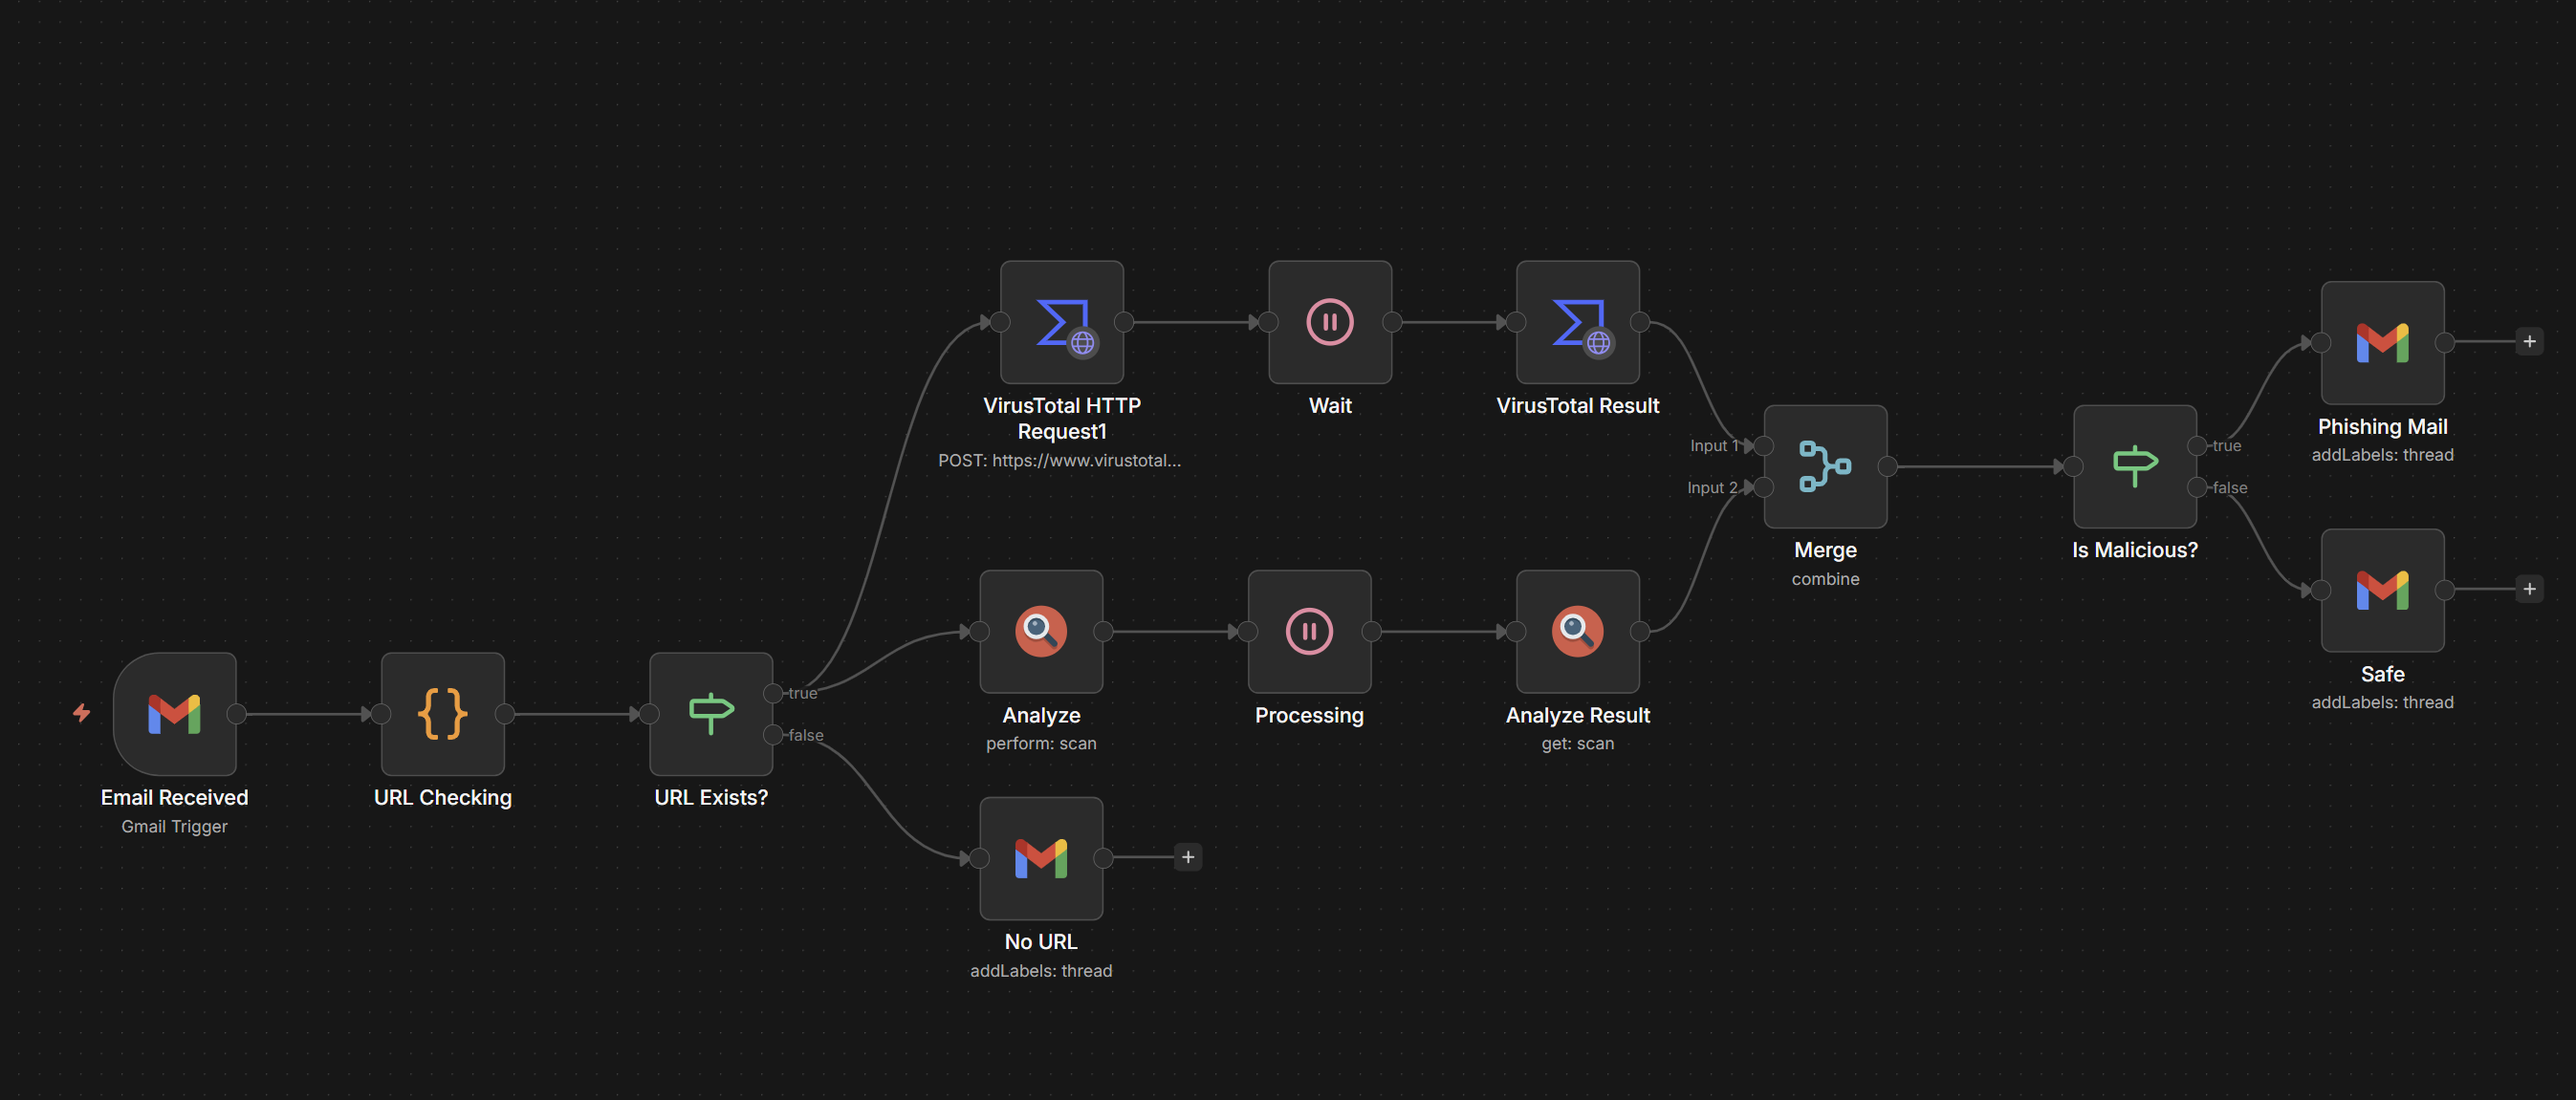
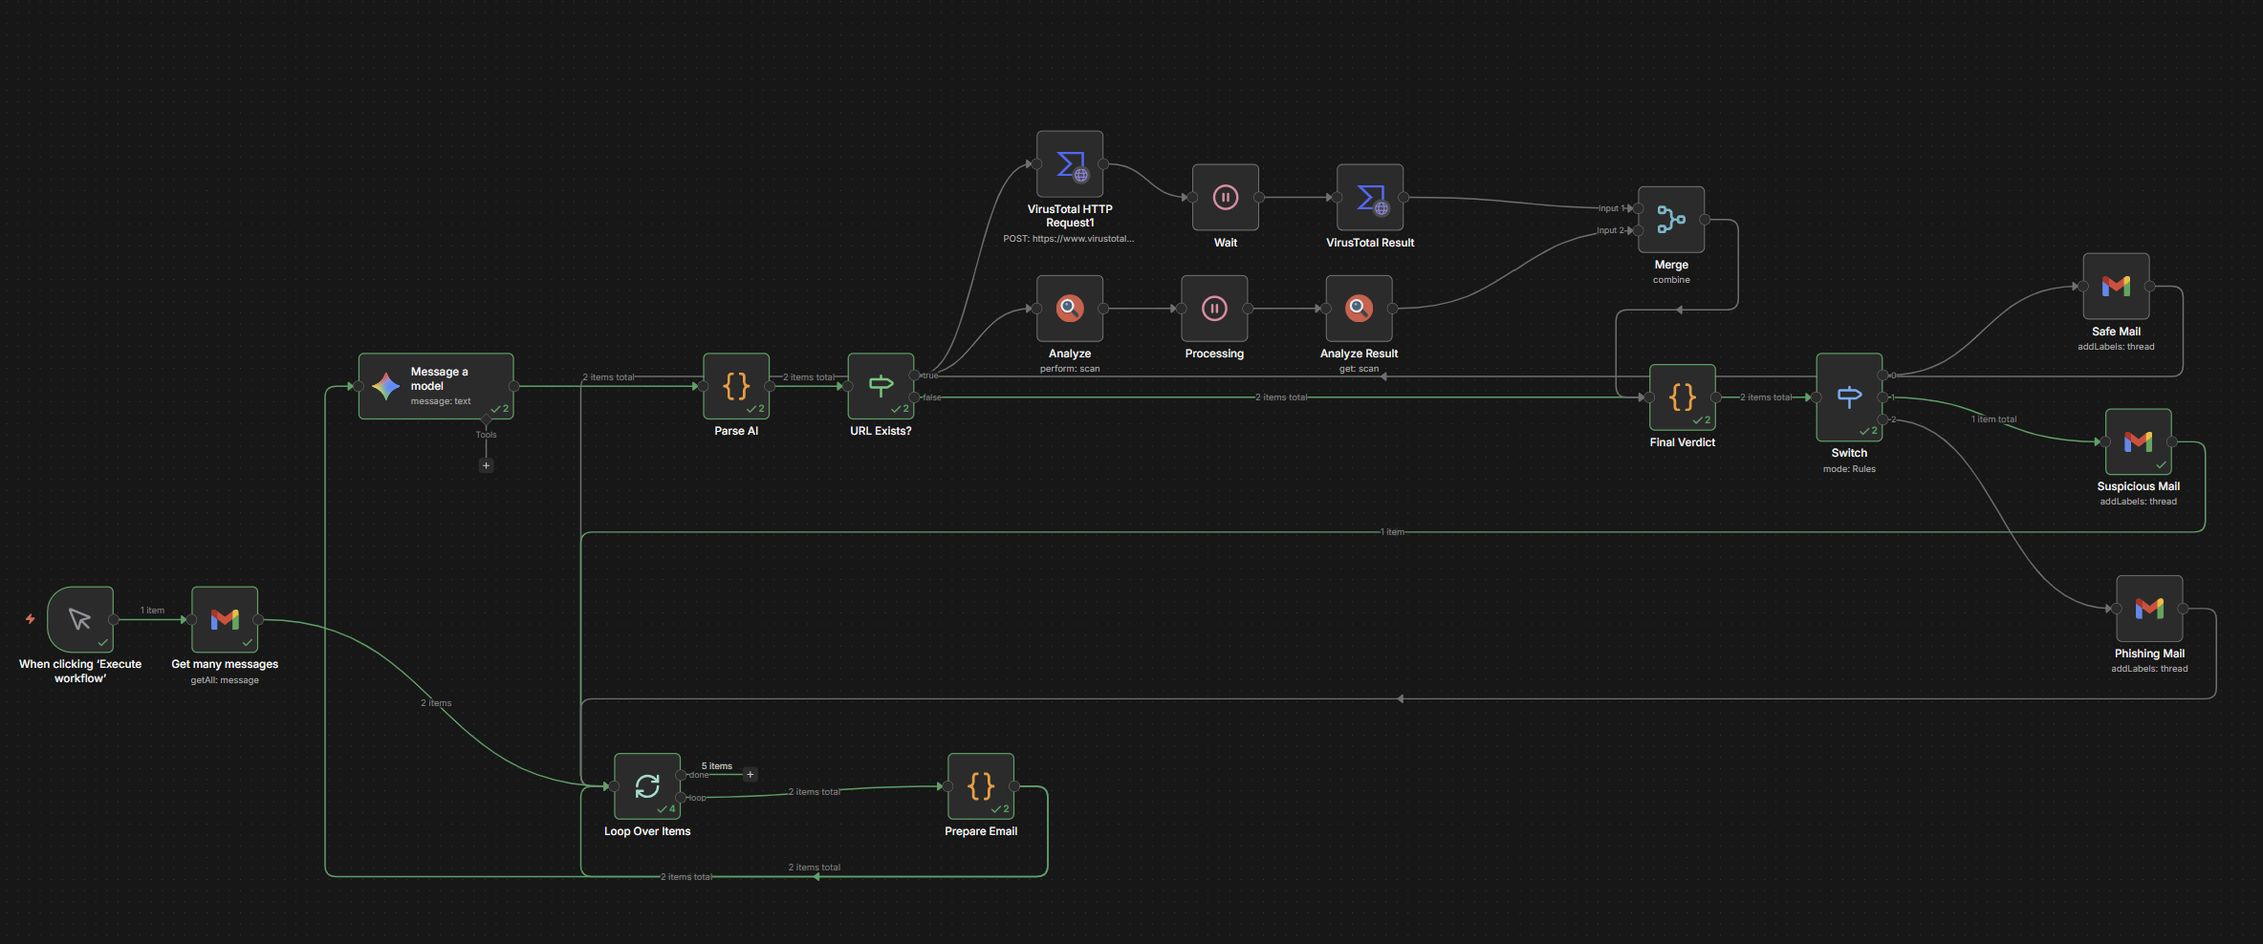
Updated workflows

diff --git a/js/final-verdict.js b/js/final-verdict.js
@@ -1,0 +1,61 @@
+// Node: "Final Verdict"  | Type: Code | Mode: Run Once for Each Item
+// Scanners always override the AI. Node names referenced below must not be renamed:
+// "Parse AI", "VirusTotal Result", "Analyze Result".
+
+const ai = $('Parse AI').first().json;
+const hasUrl = !!ai.extractedUrl;
+
+let vtMal = 0, usMal = false, usScore = 0;
+if (hasUrl) {
+  try { vtMal = $('VirusTotal Result').first().json.data?.attributes?.stats?.malicious ?? 0; } catch (e) {}
+  try {
+    const us = $('Analyze Result').first().json;
+    usMal = !!us.verdicts?.engines?.malicious;
+    usScore = us.verdicts?.engines?.score ?? 0;
+  } catch (e) {}
+}
+
+const authOk = /SPF=pass/.test(ai.authSummary || "") &&
+               /DKIM=pass/.test(ai.authSummary || "") &&
+               /DMARC=pass/.test(ai.authSummary || "");
+const invalid = (ai.aiFlags || []).includes("invalid_ai_output");
+
+// Optional: sender domains you trust. Only honored when DMARC passes.
+const trusted = ["linkedin.com", "dbs.com", "dbs.com.sg", "hm.com"];
+const fromAddr = (ai.from?.value?.[0]?.address || "").toLowerCase();
+const fromDomain = fromAddr.split("@")[1] || "";
+const isTrusted = trusted.some(d => fromDomain === d || fromDomain.endsWith("." + d));
+
+let verdict = "safe";
+const reasons = [];
+
+if (vtMal >= 1 || usMal || usScore > 75) {
+  verdict = "phishing";
+  reasons.push(`URL flagged (VirusTotal malicious=${vtMal}, urlscan malicious=${usMal})`);
+} else if (ai.aiVerdict === "scam" && ai.aiConfidence >= 0.8) {
+  verdict = "phishing";
+  reasons.push("AI: high-confidence scam");
+} else if (invalid) {
+  verdict = "suspicious";
+  reasons.push("AI unavailable, needs review");
+} else if (ai.aiVerdict === "scam") {
+  verdict = "suspicious";
+  reasons.push("AI: scam (low confidence)");
+} else if (ai.aiVerdict === "suspicious" && ai.aiConfidence >= 0.7 && !(authOk && isTrusted)) {
+  verdict = "suspicious";
+  reasons.push("AI: suspicious");
+}
+
+return {
+  id: ai.id,
+  threadId: ai.threadId,
+  subject: ai.subject,
+  verdict,
+  reasons,
+  aiVerdict: ai.aiVerdict,
+  aiConfidence: ai.aiConfidence,
+  aiReason: ai.aiReason,
+  aiFlags: ai.aiFlags,
+  vtMal,
+  usMal
+};

diff --git a/js/prepare-email.js b/js/prepare-email.js
@@ -1,0 +1,38 @@
+// Node: "Prepare Email"  | Type: Code | Mode: Run Once for Each Item
+const html = $json.html || "";
+const text = $json.text || "";
+const snippet = $json.snippet || "";
+
+// Readable text from the HTML part
+const htmlText = html
+  .replace(/<(style|script|head)[\s\S]*?<\/\1>/gi, " ")
+  .replace(/<[^>]+>/g, " ")
+  .replace(/&nbsp;|&zwnj;|&#\d+;/g, " ")
+  .replace(/\s+/g, " ")
+  .trim();
+
+// Use the longest source, because the plain-text part is sometimes a stub
+const candidates = [htmlText, text, snippet].filter(Boolean);
+const body = (candidates.sort((a, b) => b.length - a.length)[0] || "")
+  .replace(/\s+/g, " ")
+  .trim()
+  .slice(0, 4000);
+
+// Real links only (no images, CSS, schema)
+const hrefs = [...html.matchAll(/href=["'](https?:\/\/[^"']+)["']/gi)].map(m => m[1]);
+const plain = (text + " " + snippet).match(/https?:\/\/[^\s<>"')]+/g) || [];
+const junk = /\.(png|jpe?g|gif|svg|css|woff2?)(\?|$)|w3\.org|schema\.org/i;
+const urls = [...new Set([...hrefs, ...plain])].filter(u => !junk.test(u));
+
+// SPF / DKIM / DMARC summary
+const auth = $json.headers?.["authentication-results"] || "";
+const pick = k => (auth.match(new RegExp(k + "=(\\w+)", "i")) || [])[1] || "none";
+const authSummary = `SPF=${pick("spf")}, DKIM=${pick("dkim")}, DMARC=${pick("dmarc")}`;
+
+return {
+  ...$json,
+  cleanBody: body,
+  urls,
+  extractedUrl: urls.length ? encodeURI(urls[0]) : "",
+  authSummary
+};

diff --git a/js/parse-ai.js b/js/parse-ai.js
@@ -1,0 +1,47 @@
+// Node: "Parse AI"  | Type: Code | Mode: Run Once for Each Item
+// Reads the Gemini output, validates it, and fails safe to "suspicious".
+
+const raw =
+  $json.content?.parts?.[0]?.text ??
+  $json.candidates?.[0]?.content?.parts?.[0]?.text ??
+  $json.output?.[0]?.content?.[0]?.text ??
+  $json.message?.content ??
+  $json.text;
+
+let ai = null;
+try {
+  if (raw && typeof raw === "object") {
+    ai = raw;
+  } else if (typeof raw === "string") {
+    const cleaned = raw.replace(/```json|```/gi, "").trim();
+    const match = cleaned.match(/\{[\s\S]*\}/);
+    ai = JSON.parse(match ? match[0] : cleaned);
+  }
+} catch (e) {
+  ai = null;
+}
+
+const verdict = String(ai?.verdict || "").toLowerCase();
+if (!["scam", "suspicious", "legit"].includes(verdict)) {
+  ai = {
+    verdict: "suspicious",
+    confidence: 0,
+    red_flags: ["invalid_ai_output"],
+    reason: "AI did not return a valid verdict"
+  };
+} else {
+  ai.verdict = verdict;
+  ai.confidence = Math.min(1, Math.max(0, Number(ai.confidence) || 0));
+  ai.red_flags = Array.isArray(ai.red_flags) ? ai.red_flags : [];
+  ai.reason = String(ai.reason || "");
+}
+
+// The node name must stay exactly "Prepare Email"
+const prep = $('Prepare Email').item.json;
+return {
+  ...prep,
+  aiVerdict: ai.verdict,
+  aiConfidence: ai.confidence,
+  aiFlags: ai.red_flags,
+  aiReason: ai.reason
+};

diff --git a/README.md b/README.md
@@ -1,88 +1,113 @@
 # phishing-sandbox-soar
 
+AI-assisted email triage built as a SOAR playbook in **n8n**. It reads unread Gmail messages, analyzes the text with an LLM (Gemini), checks embedded URLs with **VirusTotal** and **urlscan.io**, and labels each email **Safe**, **Suspicious** or **Phishing**.
+
+> Proof-of-concept reference architecture for learning and portfolio use. It supplements, and does not replace, a real email security gateway.
+
 ![workflow](./img/workflow.png)
 
-## Phase 1: The Local Lab (Docker Setup)
+## The problem
 
-We’ll use docker-compose to ensure data is **persistent** and **credentials** stay private.  
-1. Create project directory  
-   ```
-    mkdir phishing-sandbox-soar && cd phishing-sandbox-soar
-    mkdir n8n_data
-    sudo chown -R 1000:1000 ./n8n_data
-   ```
-   * Set permissions so the n8n container user (1000) can write to it
-2. Create a .env file
-   ```  
-    N8N_BASIC_AUTH_USER=admin
-    N8N_BASIC_AUTH_PASSWORD=YourStrongPassword123!
-    TZ=Asia/Singapore
-   ```
-3. Create ```docker-compose.yml```
-    ```
-    version: '3.8'
-    services:
-    n8n:
-        image: n8nio/n8n:latest
-        restart: unless-stopped
-        ports:
-        - "5678:5678"
-        environment:
-        - N8N_BASIC_AUTH_ACTIVE=true
-        - N8N_BASIC_AUTH_USER=${N8N_BASIC_AUTH_USER}
-        - N8N_BASIC_AUTH_PASSWORD=${N8N_BASIC_AUTH_PASSWORD}
-        - TZ=${TZ}
-        volumes:
-        - ./n8n_data:/home/node/.n8n
-    ```
-## Phase 2: Building the SOAR Workflow
-The workflow follows the NIST Incident Response Lifecycle (Detection, Analysis, and Containment).  
-1. Ingestion: The Monitoring Gate  
-   * **Node**: Gmail Trigger
-   * **Configuration**: Polls the "Phishing" folder every 1 minute.
-   * **Logic**: Uses a filter is:unread -label:Danger -label:Safe to prevent duplicate processing.
-2. **Extraction**: IoC Identification
-   * **Node**: Code (JavaScript)
-   * **Function**: Uses a Regular Expression (Regex) to extract URLs from both the Plain Text and HTML body of the email.
-   * **Cybersecurity Value**: This ensures "button-hidden" links in phishing emails are caught.
-3. **Enrichment**: Threat Intelligence Integration
-   * **Step A**: Submission (urlscan.io)
-     * Submits the extracted URL to a headless browser sandbox for live detonation.
-   * **Step B**: Wait Node
-     * Pauses the workflow for 60 seconds to allow the sandbox to generate a screenshot and a security report.
-    * **Step C**: Verification (VirusTotal - Engines)\
-      * Queries VirusTotal to see how many professional security engines (e.g., CrowdStrike, Kaspersky) flag the URL.
-4. **Logic**: The Automated Decision
-   * **Node**: If Node
-   * **Condition**: Checks if Engines Malicious ```Score >= 1``` or urlscan.io ```Score > 75```.
-   * **Cybersecurity Value**: Eliminates human error by making objective, data-driven decisions.
-5. **Remendation**: Containment & Response
-   * True Path (Threat Detected):
-     * Adds a Danger label to the Gmail thread.
-     * (Optional) Sends a high-priority alert to Discord/Slack with the malicious IP and country.
-   * False Path (No Threat):
-     * Adds a Safe label to the thread to inform the user the link was analyzed and cleared.
+An employee can receive 100+ emails a day. Nobody can inspect every link and every message. This workflow triages the inbox automatically, so people can skip what is labeled Phishing and review only what is labeled Suspicious.
 
-## Phase 3: Validation & Testing
-To prove the system works, we perform Live Fire Testing:  
-1. Positive Test: Send a real phishing link from PhishTank to the inbox. Verify that the system correctly applies the Danger label.
-2. Negative Test: Send a safe link (e.g., Google.com). Verify that it correctly applies the Safe label.
-3. Edge Case Test: Send a link hidden inside a button to verify the HTML extraction logic.
+## Architecture
 
----
+```
+Manual Trigger
+  -> Get many messages   (unread, no Safe/Suspicious/Phishing label)
+  -> Loop Over Items     (batch size 1)
+       -> Prepare Email  (clean body, extract URLs, read SPF/DKIM/DMARC)
+       -> Message a model (Gemini: scam | suspicious | legit)
+       -> Parse AI       (validate JSON, fail-safe to "suspicious")
+       -> URL Exists?
+            true  -> VirusTotal + urlscan.io (parallel) -> Merge
+            false ------------------------------------------+
+       -> Final Verdict  (scanners override AI)  <-----------+
+       -> Switch -> Safe / Suspicious / Phishing label
+       -> back to Loop Over Items (next email)
+```
 
-## ⚠ Disclaimer & Safety Warning
-1. No Guarantee of Detection (False Negatives)
-This tool is designed for educational and research purposes as a proof-of-concept for SOAR automation. While it utilizes reputable Threat Intelligence sources (VirusTotal and urlscan.io), no security tool can guarantee 100% detection. Attackers frequently use "Zero-Day" URLs, geofencing, and bot-detection evasion techniques that may result in a False Negative (a malicious link being labeled as "Safe").
+Mapped to the NIST incident response lifecycle:
 
-2. Sandbox "Detonation" Risks
-The urlscan.io node performs a "live detonation" by visiting the URL in a headless browser. While this happens on their servers and not your local machine, always treat the results with caution. Never manually visit a URL flagged as Danger without an isolated malware analysis environment (e.g., a dedicated VM or Any.run).
+| Phase | Implementation |
+|---|---|
+| Detection | Gmail query for unread, unlabeled mail |
+| Analysis | LLM text analysis, SPF/DKIM/DMARC, URL extraction |
+| Enrichment | VirusTotal engines, urlscan.io sandbox |
+| Decision | `Final Verdict` code node |
+| Containment / response | Gmail label (Safe, Suspicious, Phishing) |
 
-3. API Quotas & Service Availability
-This workflow depends on the availability and free-tier limits of third-party APIs. If your daily API quota for VirusTotal or urlscan.io is exceeded, the workflow will fail to enrich data, potentially leaving malicious emails unprocessed.
+MITRE ATT&CK coverage: **T1566 Phishing** (including T1566.002 Spearphishing Link).
 
-4. Data Privacy
-By using this workflow, you are submitting URLs found in your emails to third-party services for analysis. Be aware that sensitive or private URLs (such as password reset links or private document shares) may be logged by these services. Use the "Private" scan setting in urlscan.io where possible to minimize public exposure.
+## Design decisions
 
-5. Limitation of Liability
-The author of this project is not responsible for any security breaches, data loss, or system compromises that may occur in your environment. This tool should be used as a supplement to, not a replacement for, enterprise-grade email security solutions.
+- **Scanners override the AI.** If VirusTotal or urlscan.io flags a URL, the verdict is Phishing regardless of what the LLM says. This limits prompt-injection impact: an email cannot talk its way past a flagged link.
+- **Fail-safe, not fail-open.** If the AI errors, rate-limits or returns invalid JSON, the email becomes **Suspicious**, never Safe.
+- **One email at a time.** Keeps each email's scan results isolated and respects free-tier API rate limits.
+- **Authentication as a signal.** SPF/DKIM/DMARC results are passed to the model and used in the verdict. Trusted-domain shortcuts only apply when DMARC passes.
+- **Labels are idempotent.** The Gmail search excludes already-labeled mail, so a run never reprocesses it.
+
+## Quick start
+
+Full instructions are in [docs/SETUP.md](docs/SETUP.md). Summary:
+
+1. `cp .env.example .env` and run `docker compose up -d`
+2. Open http://localhost:5678 and create the owner account
+3. Create credentials in n8n: Gmail OAuth2, Google Gemini, VirusTotal (header auth), urlscan.io
+4. Create Gmail labels `Safe`, `Suspicious`, `Phishing`
+5. Import `workflow/phishing-soar.json` and re-select credentials and labels in the nodes
+6. Click **Execute workflow**
+
+You always need your own API keys and Gmail labels. They are never stored in this repository.
+
+## Repository layout
+
+```
+.
+├── README.md
+├── docker-compose.yml
+├── .env.example
+├── .gitignore
+├── img/workflow.png
+├── workflow/
+│   ├── phishing-soar.json        sanitized n8n export
+│   └── code/                     code used in the Code nodes (readable copies)
+│       ├── prepare-email.js
+│       ├── parse-ai.js
+│       ├── final-verdict.js
+│       └── gemini-system-prompt.txt
+└── docs/
+    ├── SETUP.md                  step-by-step installation
+    ├── NODES.md                  what each node does
+    └── TESTING.md                test plan and results table
+```
+
+## Results
+
+Fill this in after testing (see [docs/TESTING.md](docs/TESTING.md)). Do not publish numbers you have not measured.
+
+| Metric | Value |
+|---|---|
+| Test set size | _ legitimate, _ malicious |
+| Detection rate (malicious labeled Suspicious or Phishing) | _ % |
+| False positive rate (legitimate labeled Suspicious or Phishing) | _ % |
+
+## Limitations
+
+- **False negatives are possible.** Zero-day URLs, cloaking and sandbox evasion can pass scanners; well-written scams can pass the LLM.
+- **LLM output is non-deterministic.** Temperature is set to 0, but verdicts can still vary.
+- **Prompt injection** is a known risk; mitigated by letting scanners override the AI, not eliminated.
+- **Only the first URL** in an email is scanned, to conserve API quota.
+- **Free-tier quotas** (VirusTotal about 4 requests/min, Gemini and urlscan.io limits) make it unsuitable for high volume without paid tiers.
+- Runs on demand; it is not a real-time gateway.
+
+## Security and privacy
+
+- Email text, headers and URLs are sent to third-party services (Google Gemini, VirusTotal, urlscan.io). Use a **test inbox**, or a local model, for anything sensitive.
+- Free-tier AI services may use submitted data to improve their products. Use a paid or local model for real company mail.
+- Never open URLs flagged as Phishing outside an isolated VM or sandbox.
+- Never commit `.env`, `n8n_data/` or credentials. `n8n_data/` contains your encrypted credentials and encryption key.
+
+## Disclaimer
+
+This is an educational proof-of-concept. No tool guarantees 100% detection, and a "Safe" label means "no threat found", not "guaranteed safe". The author is not responsible for security incidents, data loss or system compromise resulting from its use. Use it as a supplement to, not a replacement for, enterprise-grade email security.
